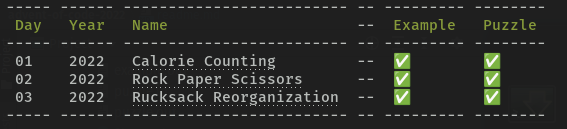
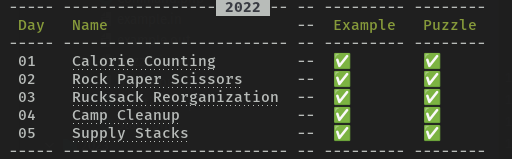
List command shows only puzzles for given year

diff --git a/src/Commands/SolutionListCommand.php b/src/Commands/SolutionListCommand.php
@@ -13,6 +13,7 @@ use Symfony\Component\Console\Attribute\AsCommand;
 use Symfony\Component\Console\Command\Command;
 use Symfony\Component\Console\Helper\TableSeparator;
 use Symfony\Component\Console\Input\InputInterface;
+use Symfony\Component\Console\Input\InputOption;
 use Symfony\Component\Console\Output\OutputInterface;
 use Symfony\Component\Console\Style\SymfonyStyle;
 
@@ -25,6 +26,8 @@ final class SolutionListCommand extends Command
     private const RESOLVED_ICON = '✅';
     private const RESOLVED_INCORRECTLY_ICON = '❌';
 
+    private const OPTION_YEAR = 'year';
+
     public function __construct(
         private readonly SolutionFactory $factory,
         private readonly SolutionsDescriptor $descriptor,
@@ -33,13 +36,30 @@ final class SolutionListCommand extends Command
         parent::__construct();
     }
 
+    protected function configure(): void
+    {
+        $this->addOption(self::OPTION_YEAR, 'y', InputOption::VALUE_REQUIRED, 'List puzzles for given year. Default year: current year');
+    }
+
     /**
      * @throws FileNotFound
      */
     protected function execute(InputInterface $input, OutputInterface $output): int
     {
+        $style = new SymfonyStyle($input, $output);
+
+        $availableYears = $this->factory->getAvailableYears();
+        $year = $this->getYear($input);
+
+        if (!in_array($year, $availableYears, true)) {
+            $style->error('There is no puzzles for given year. Use --year option to list puzzles for different year. Given: ' . $year);
+            $style->info('Available years: ' . implode(', ', $availableYears));
+
+            return Command::FAILURE;
+        }
+
         $rows = [];
-        foreach ($this->factory->iterate() as $solution) {
+        foreach ($this->factory->iterateForYear($year) as $solution) {
             $description = $this->descriptor->getDescription($solution);
 
             $isExampleResolvedCorrectly = $this->runner->run($solution, InputType::Example)->isResolvedCorrectly();
@@ -47,7 +67,6 @@ final class SolutionListCommand extends Command
 
             $rows[] = [
                 $description->date->day,
-                $description->date->year,
                 $description->name ? sprintf('<href=%s>%s</>', $description->href, $description->name) : '---',
                 new TableSeparator(),
                 $this->renderIcon($isExampleResolvedCorrectly),
@@ -55,11 +74,11 @@ final class SolutionListCommand extends Command
             ];
         }
 
-        $style = new SymfonyStyle($input, $output);
-        $style->table(
-            ['Day', 'Year', 'Name', new TableSeparator(), 'Example', 'Puzzle'],
-            $rows
-        );
+        $style->createTable()
+            ->setHeaderTitle($year)
+            ->setHeaders(['Day', 'Name', new TableSeparator(), 'Example', 'Puzzle'])
+            ->setRows($rows)
+            ->render();
 
         return Command::SUCCESS;
     }
@@ -67,5 +86,14 @@ final class SolutionListCommand extends Command
     private function renderIcon(bool $isResolvedCorrectly): string
     {
         return $isResolvedCorrectly ? self::RESOLVED_ICON : self::RESOLVED_INCORRECTLY_ICON;
+    }
+
+    private function getYear(InputInterface $input): string
+    {
+        if ($year = $input->getOption(self::OPTION_YEAR)) {
+            return (string) $year;
+        }
+
+        return (new \DateTimeImmutable())->format('Y');
     }
 }

diff --git a/src/Services/SolutionFactory.php b/src/Services/SolutionFactory.php
@@ -42,7 +42,37 @@ final class SolutionFactory
     /**
      * @return Solver[]
      */
-    public function iterate(): iterable
+    public function iterateForYear(string $year): iterable
+    {
+        foreach ($this->iterate() as $solver) {
+            $solverNamespace = SolverFullyQualifiedClassname::fromObject($solver);
+
+            if ($solverNamespace->getDate()->year === $year) {
+                yield $solver;
+            }
+        }
+    }
+
+    /**
+     * @return string[]
+     */
+    public function getAvailableYears(): array
+    {
+        $years = [];
+
+        foreach ($this->iterate() as $solver) {
+            $solverNamespace = SolverFullyQualifiedClassname::fromObject($solver);
+
+            $years[] = $solverNamespace->getDate()->year;
+        }
+
+        return array_unique($years);
+    }
+
+    /**
+     * @return Solver[]
+     */
+    private function iterate(): iterable
     {
         yield from $this->solutions;
     }

diff --git a/readme.md b/readme.md
@@ -18,8 +18,10 @@ php app.php app:solve [--year=2022] [--day=1] [--puzzle]
 ```
 
 ### List all puzzles and check results
+Default year: current year.
+
 ```bash
-php app.php app:list
+php app.php app:list [--year=2022]
 ```
 
 ![list-command.png](resources/list-command.png)
